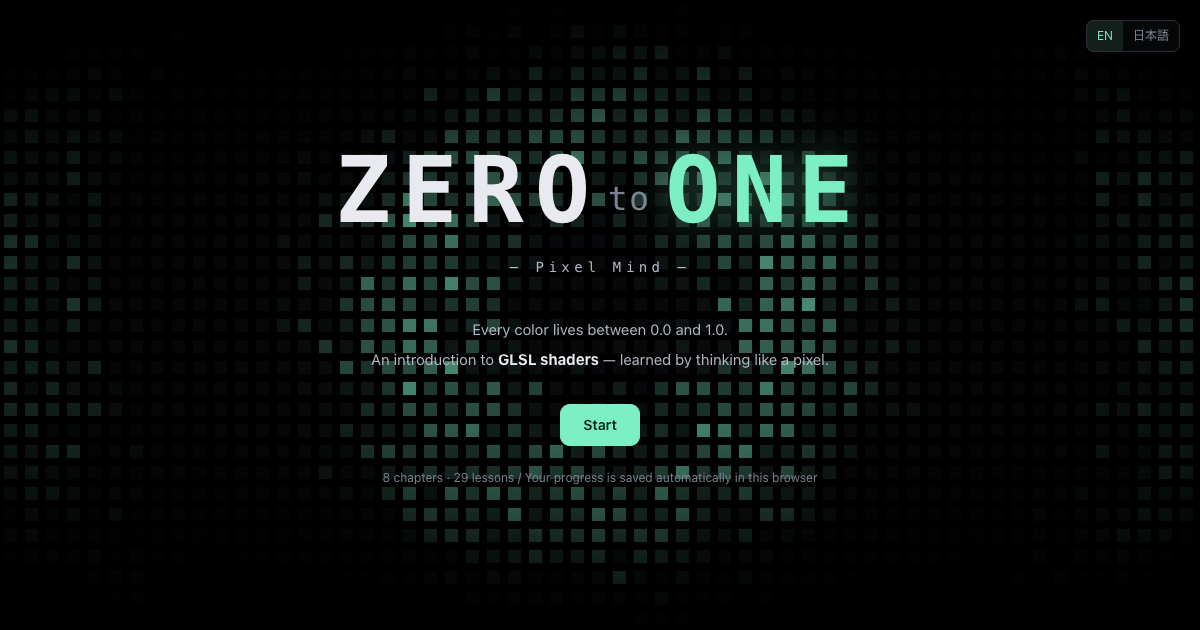
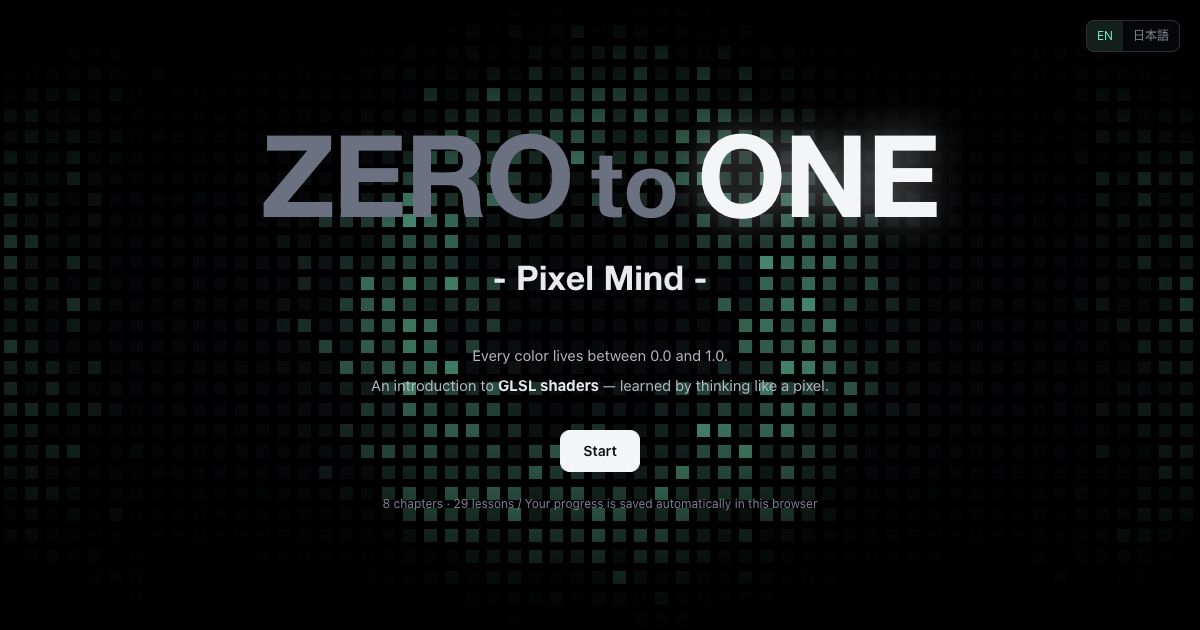
Restyle the top page title: Helvetica-style bold, monotone colors
Bold Helvetica-style type for ZERO to ONE, larger 'to' and '- Pixel Mind -'.
Monotone: ZERO in gray (0.0 = dark), ONE in white (1.0 = bright), white
Start button; the mint accent stays in the background pixels.
Regenerate the social preview image.

Changed region(s): [[0.2158, 0.2111, 0.8017, 0.3619], [0.3083, 0.5127, 0.6783, 0.8143], [0.4008, 0.4222, 0.5858, 0.4825]]

diff --git a/index.html b/index.html
@@ -310,10 +310,14 @@ body.scrubbing,body.scrubbing *{cursor:ew-resize!important;user-select:none!impo
 .intro canvas{position:absolute;inset:0;width:100%;height:100%}
 .intro.hide{opacity:0;pointer-events:none}
 .intro-inner{position:relative;text-align:center;padding:24px;max-width:760px}
-.intro h1{font-family:var(--mono);font-size:clamp(38px,8vw,92px);letter-spacing:.12em;margin:0;font-weight:700;line-height:1.05;white-space:nowrap}
-.intro h1 i{font-style:normal;font-weight:300;font-size:.36em;color:var(--muted);letter-spacing:.04em;margin:0 .45em 0 .2em;vertical-align:.35em}
-.intro h1 b{color:var(--accent);text-shadow:0 0 40px rgba(124,240,196,.35)}
-.intro .sub{font-family:var(--mono);color:var(--text2);letter-spacing:.32em;margin-top:16px;font-size:14px}
+.intro{--helv:"Helvetica Neue",Helvetica,Arial,"Nimbus Sans","Liberation Sans",sans-serif}
+.intro h1{font-family:var(--helv);font-size:clamp(46px,9.5vw,116px);letter-spacing:-.015em;margin:0;font-weight:700;line-height:1;white-space:nowrap;color:#6b7180}
+.intro h1 i{font-style:normal;font-weight:700;font-size:.8em;color:inherit;letter-spacing:0;margin:0 .2em}
+.intro h1 b{font-weight:700;color:#f4f5f7;text-shadow:0 0 36px rgba(255,255,255,.35)}
+/* Monotone: ZERO = dark (0.0), ONE = bright (1.0). The mint accent stays in the background pixels. */
+.intro .btn.primary{background:#f4f5f7;border-color:#f4f5f7;color:#0a0b0e}
+.intro .btn.primary:hover{background:#fff;filter:none}
+.intro .sub{font-family:var(--helv);font-weight:700;color:var(--text);letter-spacing:0;margin-top:.55em;font-size:clamp(20px,2.9vw,34px);white-space:nowrap}
 .intro .lead{margin-top:36px;color:var(--text2);font-size:15px;line-height:2}
 .intro .lead b{color:var(--text)}
 .intro .acts{margin-top:30px;display:flex;gap:10px;justify-content:center;flex-wrap:wrap}
@@ -449,7 +453,7 @@ body.scrubbing,body.scrubbing *{cursor:ew-resize!important;user-select:none!impo
   <div class="lang intro-lang" role="group" aria-label="Language"><button class="lang-btn" data-lang="en">EN</button><button class="lang-btn" data-lang="ja">日本語</button></div>
   <div class="intro-inner">
     <h1>ZERO<i>to</i><b>ONE</b></h1>
-    <div class="sub">— Pixel Mind —</div>
+    <div class="sub">- Pixel Mind -</div>
     <p class="lead" data-i18n-html="intro.lead"></p>
     <div class="acts" id="introActs"></div>
     <div class="meta" id="introMeta"></div>
